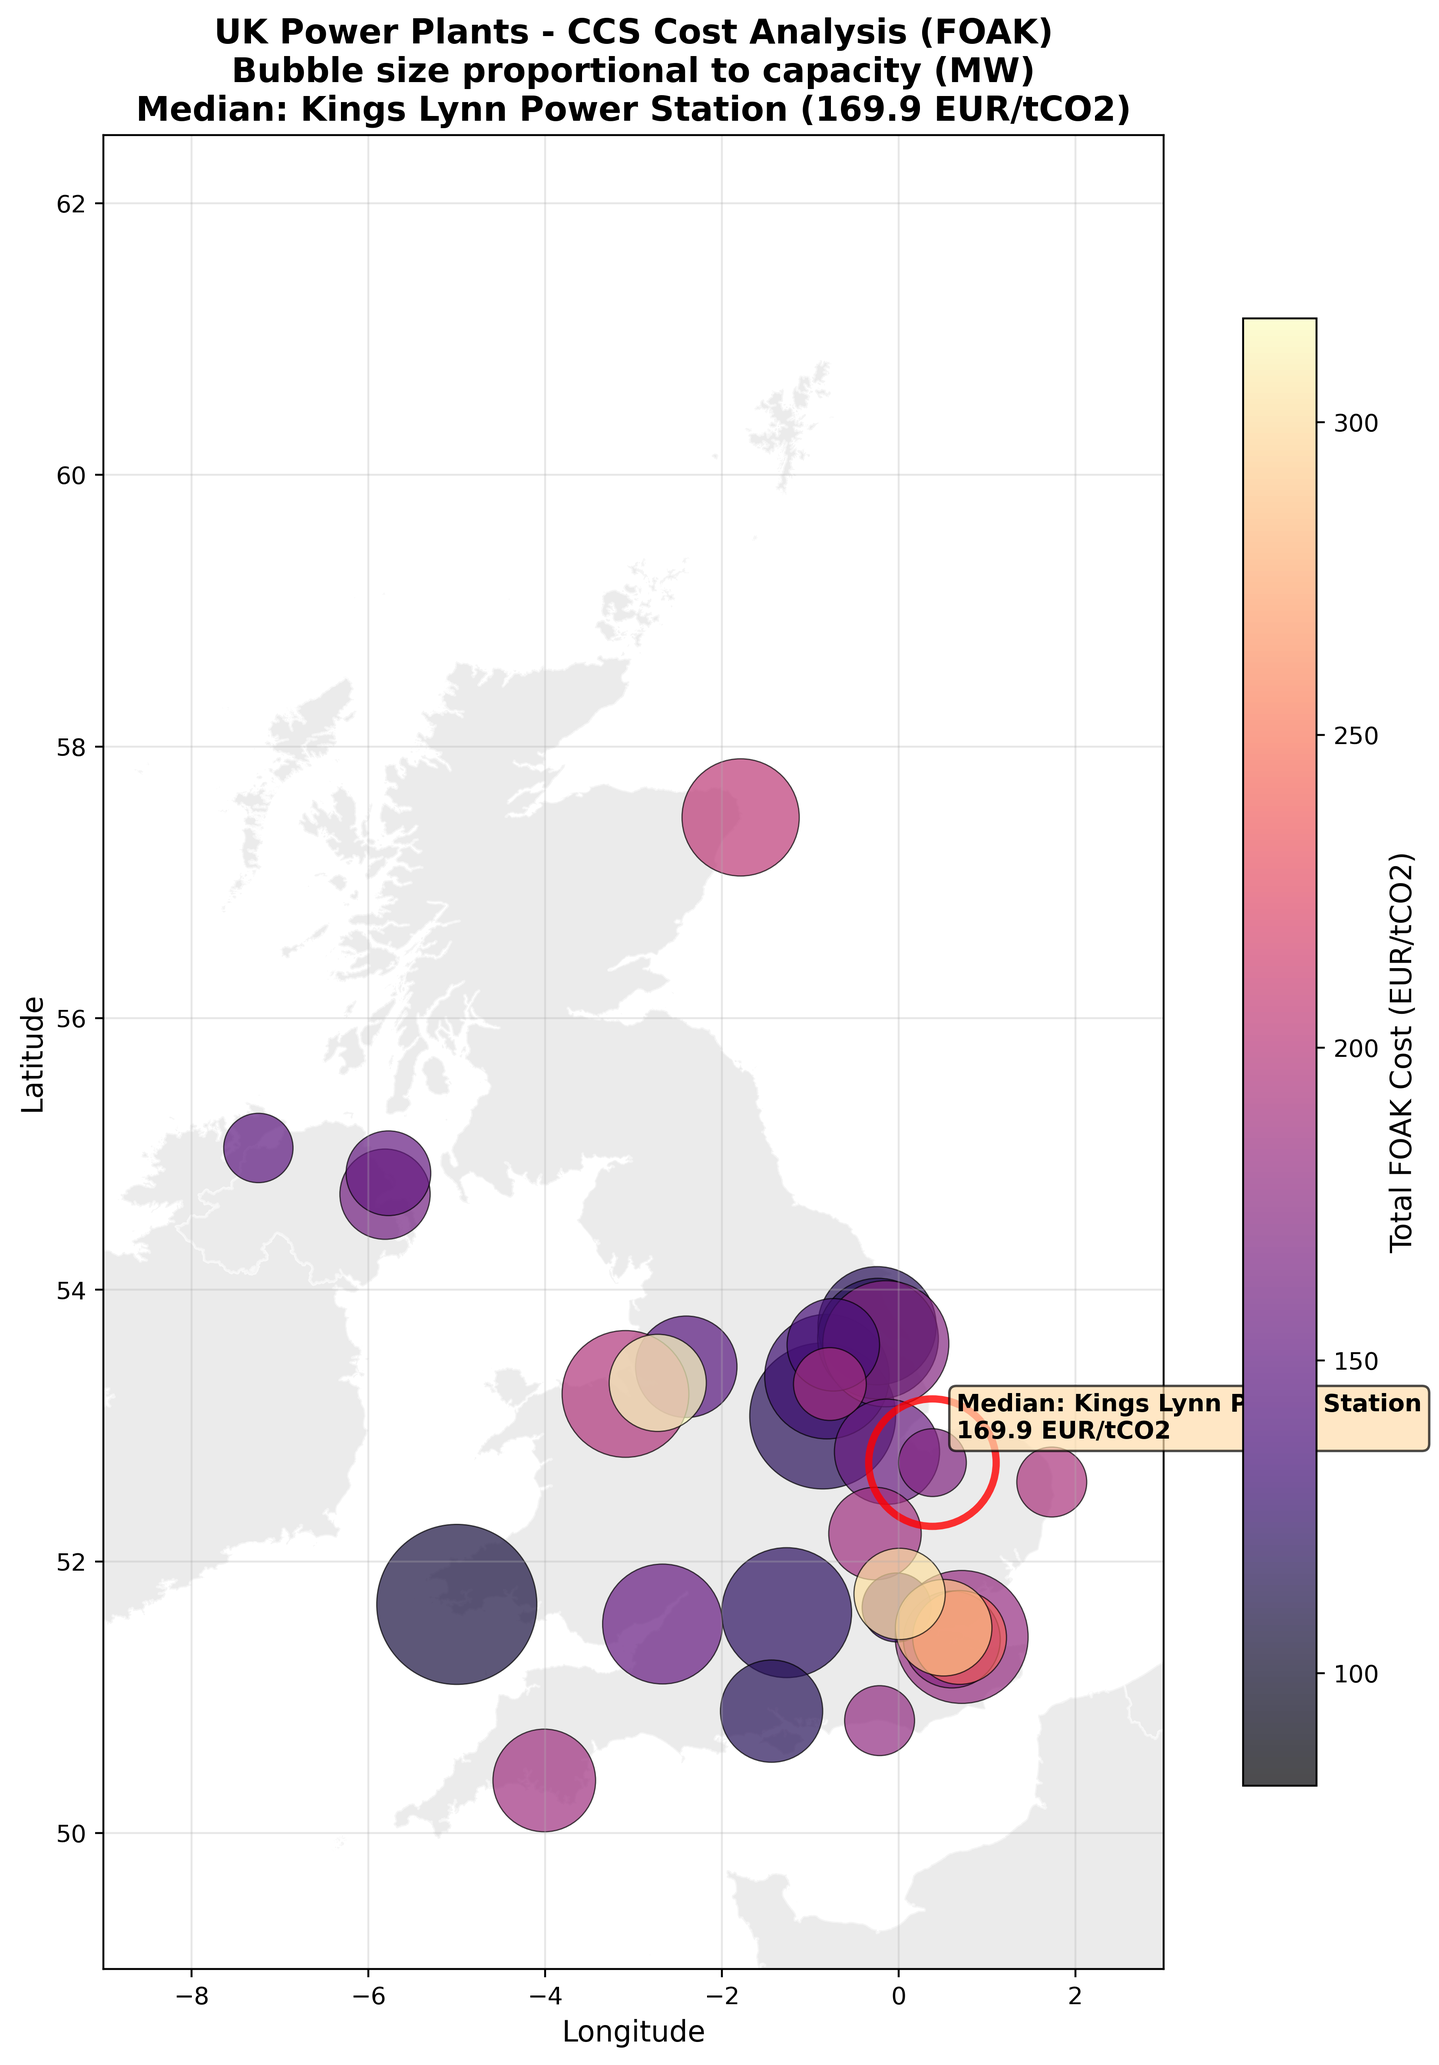
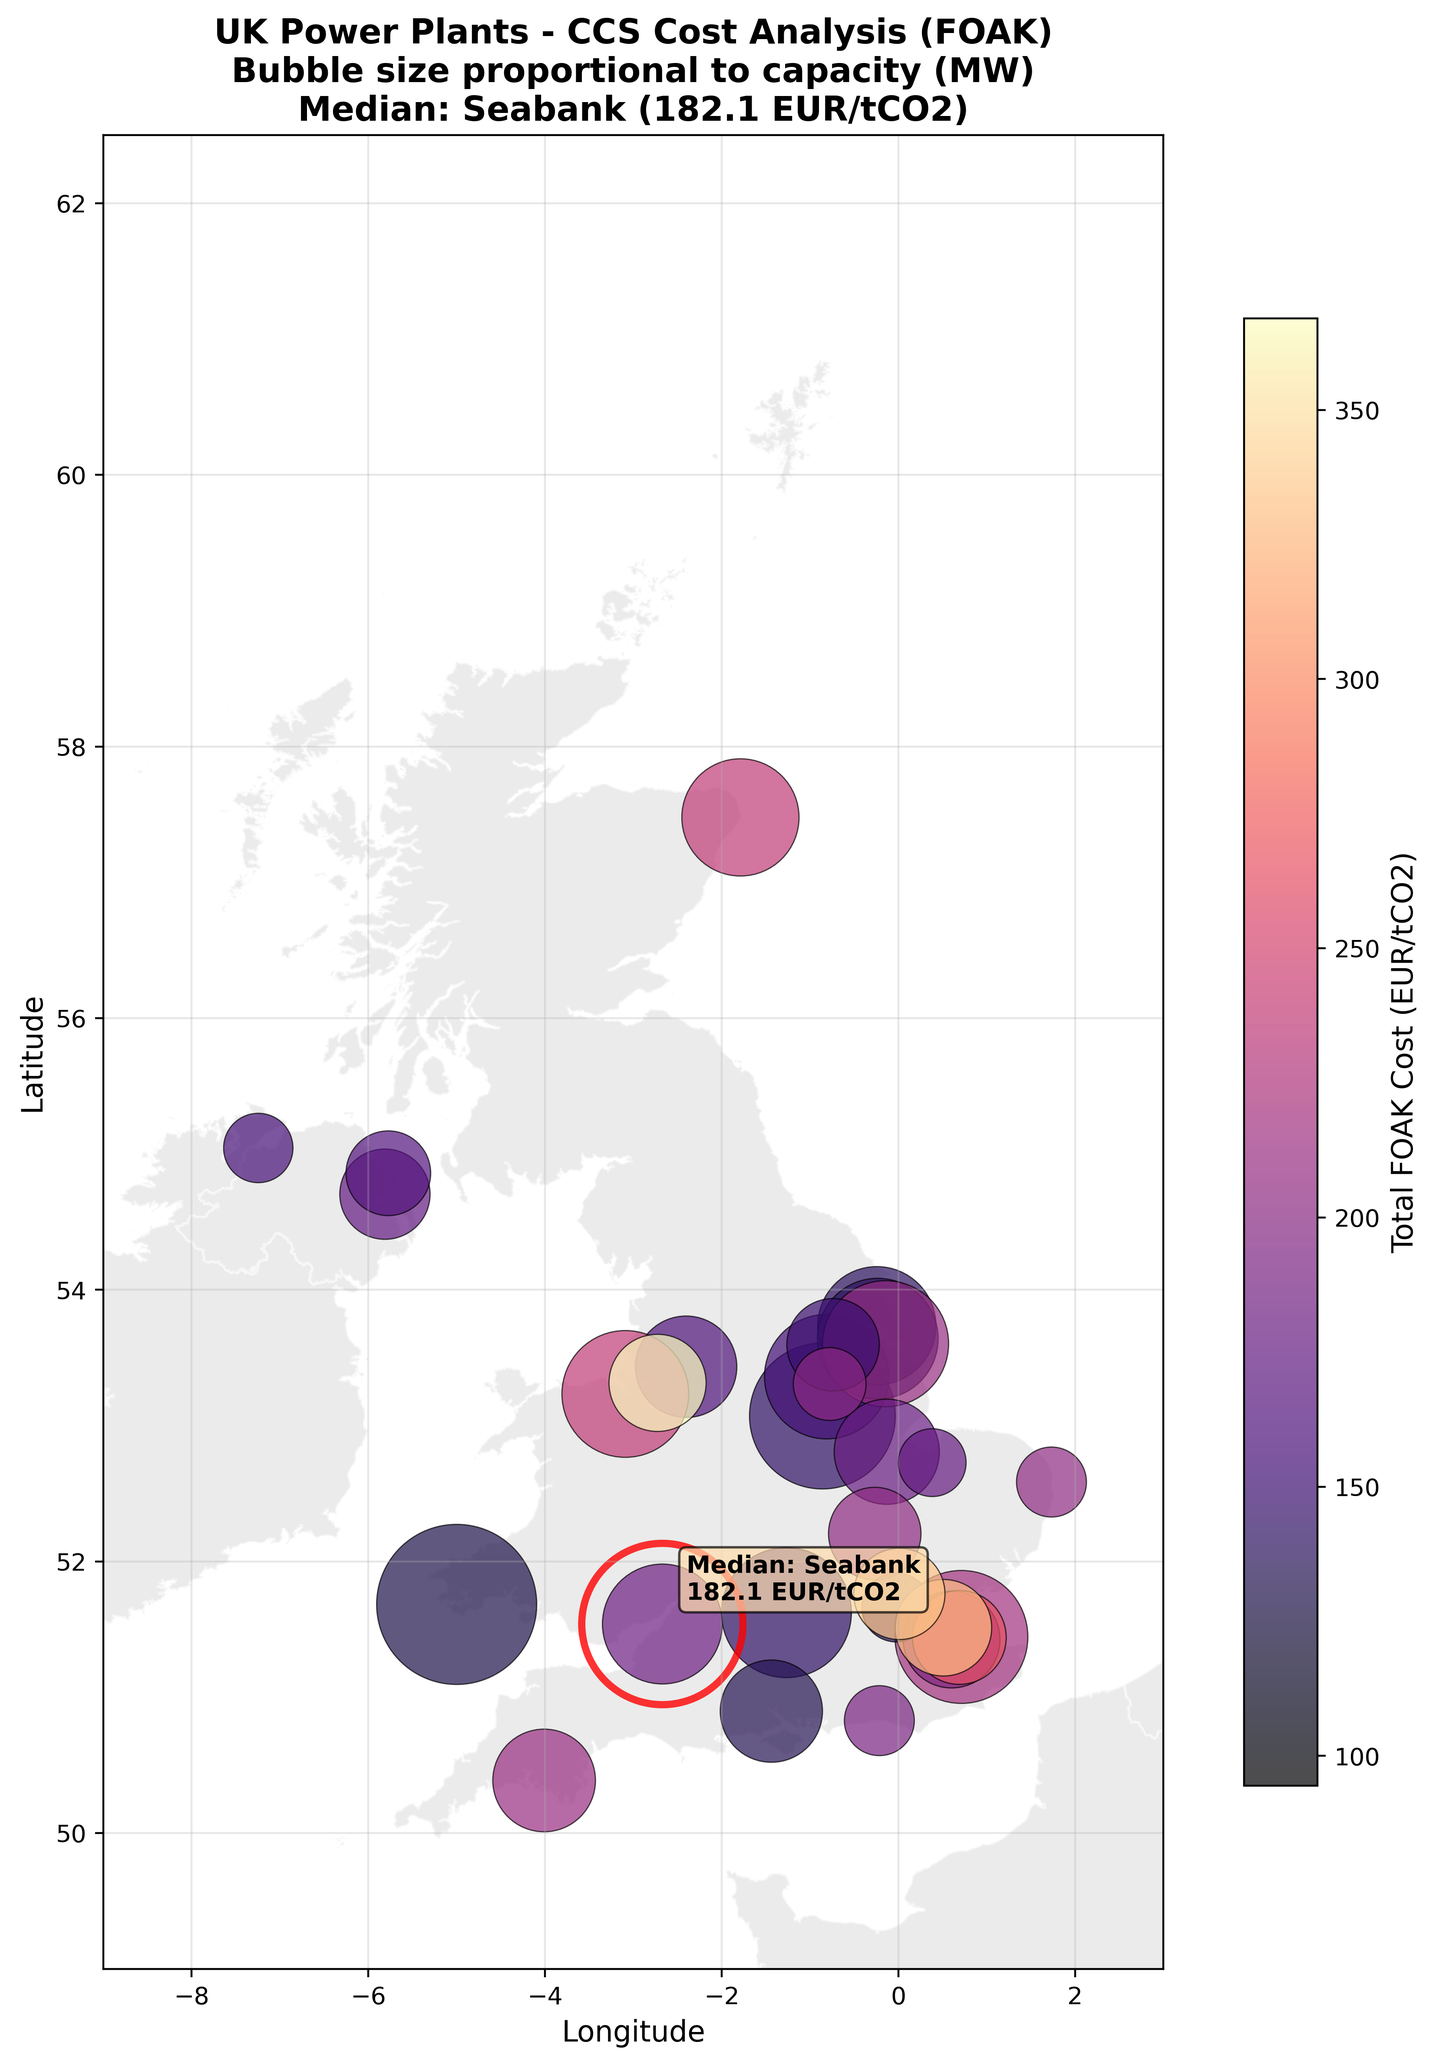
Cost demo industry refineries

diff --git a/cost_demo_industry.py b/cost_demo_industry.py
@@ -1,0 +1,250 @@
+import pandas as pd
+import matplotlib.pyplot as plt
+import numpy as np
+
+# Check this list also: https://ember-energy.org/latest-insights/the-largest-emitters-in-the-uk-annual-review/
+print("This script calculates the costs of industrial plants")
+
+def find_nearest_ccs_site(emitter_plant, transport_costs_df, discount_rate=0.035, lifetime=25, debug=False):
+    """
+    Find the nearest CCS site to an emitter plant and calculate total cost per tonne CO2.
+    
+    Parameters:
+    - emitter_plant: pandas Series with 'Easting' and 'Northing' columns
+    - transport_costs_df: DataFrame with CCS transport cost data
+    - debug: Boolean to print debug information
+    
+    Returns:
+    - dict: Contains site details and costs
+    """
+    if debug:
+        print(f"Finding nearest CCS site for: {emitter_plant.get('Site', 'Unknown')}")
+        print(f"Location: Easting={emitter_plant['Easting']}, Northing={emitter_plant['Northing']}")
+    
+    # Calculate distances to all sites in transport_costs
+    distances = []
+    for idx, row in transport_costs_df.iterrows():
+        if pd.notna(row['Easting']) and pd.notna(row['Northing']):
+            dist = calculate_distance(emitter_plant['Easting'], emitter_plant['Northing'], 
+                                    row['Easting'], row['Northing'])
+            distances.append({
+                'Site ID': row['Site ID'],
+                'Site': row['Site'],
+                'Easting': row['Easting'],
+                'Northing': row['Northing'],
+                'Distance': dist
+            })
+    
+    # Find closest site
+    distances_df = pd.DataFrame(distances)
+    closest_distance_idx = distances_df['Distance'].idxmin()
+    closest_site_id = distances_df.loc[closest_distance_idx, 'Site ID']
+    closest_site_original = transport_costs_df[transport_costs_df['Site ID'] == closest_site_id].iloc[0]
+    
+    # Extract cost data
+    mass_CO2 = closest_site_original['Total Tonnes of CO2 stored (MtCO2) 2070']
+    point_CO2 = closest_site_original['CO2 Point']
+    terminal = closest_site_original['Final CO2 Terminal']
+    injection_site = closest_site_original['Injection Site']
+    onshore_mode = closest_site_original['CO2 Pipeline/Trucking?']
+    
+    # Calculate onshore costs per tonne CO2
+    onshore_opex = float(closest_site_original['CO2 onshore transport opex (£m/y)'])
+    onshore_opex = onshore_opex / mass_CO2  # [£/tCO2]
+    
+    onshore_pipeline = 0
+    if onshore_mode == "Pipeline":
+        pipeline_capex = float(closest_site_original['CO2 onshore pipeline capex (£m)'])
+        annuity_factor = (discount_rate * (1 + discount_rate) ** lifetime) / ((1 + discount_rate) ** lifetime - 1)
+        onshore_pipeline = pipeline_capex * annuity_factor
+        onshore_pipeline = onshore_pipeline / mass_CO2  # [£/tCO2]
+        onshore_opex += onshore_pipeline
+    
+    injection_opex = float(closest_site_original['CO2 T&S cost from defined point (£/t)'])
+    total_cost = onshore_opex + injection_opex
+    
+    result = {
+        'site_id': closest_site_id,
+        'site_name': closest_site_original['Site'],
+        'distance_m': distances_df.loc[closest_distance_idx, 'Distance'],
+        'mass_co2_kt': round(mass_CO2 * 1000, 1),
+        'co2_point': point_CO2,
+        'terminal': terminal,
+        'injection_site': injection_site,
+        'onshore_mode': onshore_mode,
+        'onshore_cost_per_t': round(onshore_opex, 2),
+        'injection_cost_per_t': round(injection_opex, 2),
+        'total_cost_per_t': round(total_cost, 1)
+    }
+    
+    if debug:
+        print(f"\nClosest site: {result['site_name']} (ID: {result['site_id']})")
+        print(f"Distance: {result['distance_m']:.2f} meters")
+        print(f"Mass CO2: {result['mass_co2_kt']} ktCO2/y")
+        print(f"CO2 point: {result['co2_point']}")
+        print(f"Terminal: {result['terminal']}")
+        print(f"Injection site: {result['injection_site']}")
+        print(f"Onshore mode: {result['onshore_mode']}")
+        print(f"Onshore cost: {result['onshore_cost_per_t']} £/tCO2")
+        print(f"Injection cost: {result['injection_cost_per_t']} £/tCO2")
+        print(f"Total cost: {result['total_cost_per_t']} £/tCO2")
+    
+    return result
+
+def calculate_distance(easting1, northing1, easting2, northing2):
+    """Calculate Euclidean distance between two points"""
+    return ((easting1 - easting2)**2 + (northing1 - northing2)**2)**0.5
+
+# Prepare data
+point_sources = pd.read_csv("data/point_sources_CO2_2022.csv")
+point_sources['CO2'] = point_sources['Emission'] * 3.66
+total_co2 = point_sources['CO2'].sum()
+
+print(f"\nTop 60 largest CO2 emitters (2022):")
+top_60_emitters = point_sources.nlargest(60, 'CO2')[['PlantID', 'Site', 'Easting', 'Northing', 'Operator', 'Sector', 'CO2']]
+for i, (idx, row) in enumerate(top_60_emitters.iterrows(), 1):
+    print(f"{i:2d}. {row['Site']:<25} | {row['Operator']:<35} | {row['Sector']:<30} | {row['CO2']:>12,.0f} tCO2/yr")
+print(f"Sum of top 60 emitters: {top_60_emitters['CO2'].sum():,.0f} tonnes")
+print("Sum of all point-source CO2 emissions in 2022: ", round(total_co2*10**-6, 1), " MtCO2/yr")
+
+# Calculate transport costs for all top 60 emitters
+transport_costs = pd.read_csv("data/nzip_balanced_scenario_results.csv", encoding='latin-1')
+transport_costs = transport_costs[transport_costs["CO2 Pipeline/Trucking?"] != "No CCS"] 
+for idx, plant in top_60_emitters.iterrows():
+    result = find_nearest_ccs_site(plant, transport_costs, discount_rate=0.035, lifetime=25, debug=False)
+    plant['transport_cost'] = result['total_cost_per_t'] # [£/tCO2]
+
+# Create DataFrame with only refineries from top 60 emitters
+refineries = top_60_emitters[(top_60_emitters['Sector'] == 'Processing & distribution of petroleum products')].copy()
+print("These refineries will be considered:")
+for i, (idx, row) in enumerate(refineries.iterrows(), 1):
+    print(f"{i:2d}. {row['Site']:<25} | {row['Operator']:<35} | {row['CO2']:>12,.0f} tCO2/yr")
+
+# Explore CAPEX relationships [Kim & Léonard, 2025]
+# TEC = a + (b * xCO2**n + c) * V**m [MEUR, 2023] - note that this is not valid for CCGT if xCO2<5%, or if mCO2>1250 kt/y
+a = 2.1673
+b = 0.8092
+c = -0.00332
+n = 0.5291
+m = 0.8391
+
+results = []
+
+for idx, refinery in refineries.iterrows():
+    total_CO2 = refinery['CO2']
+    power_stack = ['power',total_CO2 * 0.298, (3*25 + 8*54)/(25+54)/100] # [stack_name,tCO2/yr, fraction of CO2]
+    crackers_stack = ['crackers',total_CO2 * 0.20, 17/100]
+    distillation_stack = ['distillation',total_CO2 * 0.17, 11/100]
+    smr_stack = ['smr',total_CO2 * 0.118, (8*6 + 24*26)/(6+26)/100]
+    remaining_stack = ['remaining',total_CO2 * 0.188, 8/100]
+
+    for stack in [power_stack, crackers_stack, distillation_stack, smr_stack, remaining_stack]:
+        FLH = 8400 # [h/y]
+        xCO2 = stack[2] # [-]
+        mCO2 = stack[1] #[tCO2/yr]
+
+        mCO2 = mCO2 / FLH # [tCO2/h]
+        nCO2 = mCO2*1000 / 44 # [kmolCO2/h]
+        n_fluegas = nCO2 / xCO2 # [kmol/h]
+        V_fluegas = n_fluegas * 22.4 # [Nm3/h]
+
+        n_largest_absorbers = int( (V_fluegas/1000) // 1613) # The volume limit from [Kim & Leonard, 2025] Table A2
+        remaining_V_fluegas = (V_fluegas/1000) % 1613 # [10**3 Nm3/h]
+
+        CAPEX = 0
+        for i in range(n_largest_absorbers):
+            V_fluegas = 1613 # Add the largest absorbers if needed
+            TEC = a + (b * (xCO2)**n + c) * (V_fluegas)**m # NOTE xCO2 as fraction, not percentage
+            CAPEX += TEC
+        if remaining_V_fluegas > 0:
+            TEC = a + (b * (xCO2)**n + c) * (remaining_V_fluegas)**m 
+            CAPEX += TEC
+        CAPEX = CAPEX * 5.509 # [MEUR] NETL Methodology
+        CEPCI_2025 = 930
+        CEPCI_2023 = 798.7
+        CAPEX = CAPEX * CEPCI_2025 / CEPCI_2023
+
+        capture_rate = 0.95 # [0-1]
+        annualized_CAPEX = CAPEX * 0.07 * (1 + 0.07)**25 / ((1 + 0.07)**25 - 1) *10**6# [EUR/y]
+        levelized_CAPEX = annualized_CAPEX / (plant['CO2']*capture_rate) # [EUR/tCO2]
+        levelized_CAPEX_FOAK = 1.7553 * levelized_CAPEX # [EUR/tCO2]
+
+        # Calculate transport cost
+        pounds_to_EUR = 1.15
+        transport_result = find_nearest_ccs_site(plant, transport_costs, debug=False)
+        transport_cost = transport_result['total_cost_per_t'] * pounds_to_EUR
+        transport_cost = transport_cost * CEPCI_2025 / CEPCI_2023
+
+        # Estimate energy OPEX (industry)
+        Qreb = 3.5 * mCO2*capture_rate*1000/3600 # [MW]
+        Qsteam = 0.15 * Qreb # [MW]
+        Qelec = 0.30 * Qreb # [MW]
+        Qchp = 0.55 * Qreb # [MW]
+
+        cost_steam = 4.1 # [EUR/tsteam @130C] [Ali]
+        evaporation_enthalpy = 2257 # [MJ/tsteam]
+        cost_steam = cost_steam / evaporation_enthalpy # [EUR/MJ]
+        Qsteam = Qsteam * FLH * 3600 # [MJ/y]
+        OPEX_steam = cost_steam * Qsteam # [EUR/y]        
+        OPEX_steam = OPEX_steam / (stack[1]*capture_rate) # [EUR/tCO2]
+        print(OPEX_steam, "EUR/tCO2 at stack=", stack[1], "tCO2/yr")
+
+        celc = 80 # [EUR/MWh electricity]
+        Pelec = Qelec * 0.33 * FLH # [MWh/y]
+        OPEX_elec = celc * Pelec # [EUR/y]
+        OPEX_elec = OPEX_elec / (stack[1]*capture_rate) # [EUR/tCO2]
+        print(OPEX_elec, "EUR/tCO2 at stack=", stack[1], "tCO2/yr")
+
+        cbio = 65 # [EUR/MWh biomass]
+        Qchp = Qchp * FLH # [MWh/y]
+        OPEX_chp = cbio * Qchp # [EUR/y]
+        OPEX_chp = OPEX_chp / (stack[1]*capture_rate) # [EUR/tCO2]
+        print(OPEX_chp, "EUR/tCO2 at stack=", stack[1], "tCO2/yr")
+
+        OPEXE = OPEX_steam + OPEX_elec + OPEX_chp
+   
+        total_cost_foak = levelized_CAPEX_FOAK + transport_cost + OPEXE
+        total_cost_noak = levelized_CAPEX + transport_cost + OPEXE
+        
+        # Store results
+        results.append({
+            'Plant': refinery['Site'],
+            'Stack': stack[0],
+            'CO2_kt_y': stack[1]/1000,
+            'FLH_h': FLH,
+            'CAPEX_FOAK': levelized_CAPEX_FOAK,
+            'CAPEX_NOAK': levelized_CAPEX,
+            'Transport_EUR_tCO2': transport_cost,
+            'OPEX_EUR_tCO2': OPEXE,
+            'Total_FOAK': total_cost_foak,
+            'Total_NOAK': total_cost_noak
+        })
+
+# Create and display results table
+if results:
+    print(f"{'Plant Name':<30} | {'CO2':<8} | {'FLH':<6} | {'FOAK':<8} | {'NOAK':<8} | {'Transport':<9} | {'OPEX':<8} | {'TotalFOAK':<9} | {'TotalNOAK':<9}")
+    print(f"{'':<30} | {'kt/y':<8} | {'h/y':<6} | {'EUR/tCO2':<8} | {'EUR/tCO2':<8} | {'EUR/tCO2':<9} | {'EUR/tCO2':<8} | {'EUR/tCO2':<9} | {'EUR/tCO2':<9}")
+    print("-" * 120)
+    
+    for result in results:
+        print(f"{result['Plant']:<30} | {result['CO2_kt_y']:>8.1f} | {result['FLH_h']:>6.0f} | {result['CAPEX_FOAK']:>8.1f} | {result['CAPEX_NOAK']:>8.1f} | {result['Transport_EUR_tCO2']:>9.1f} | {result['OPEX_EUR_tCO2']:>8.1f} | {result['Total_FOAK']:>9.1f} | {result['Total_NOAK']:>9.1f}")
+    
+    # Summary statistics
+    print("-" * 120)
+    avg_capture_foak = np.mean([r['CAPEX_FOAK'] for r in results])
+    avg_capture_noak = np.mean([r['CAPEX_NOAK'] for r in results])
+    avg_transport = np.mean([r['Transport_EUR_tCO2'] for r in results])
+    avg_opex = np.mean([r['OPEX_EUR_tCO2'] for r in results])
+    avg_total_foak = np.mean([r['Total_FOAK'] for r in results])
+    avg_total_noak = np.mean([r['Total_NOAK'] for r in results])
+    
+    print(f"{'AVERAGE':<30} | {'':<6} | {'':<8} | {'':<6} | {avg_capture_foak:>8.1f} | {avg_capture_noak:>8.1f} | {avg_transport:>9.1f} | {avg_opex:>8.1f} | {avg_total_foak:>9.1f} | {avg_total_noak:>9.1f}")
+    
+    print(f"\nSummary:")
+    print(f"Number of plants analyzed: {len(results)}")
+    print(f"Total CO2 emissions: {sum([r['CO2_kt_y'] for r in results]):,.1f} ktCO2/y")
+    print(f"Average total CCS cost (FOAK): {avg_total_foak:.1f} EUR/tCO2")
+    print(f"Average total CCS cost (NOAK): {avg_total_noak:.1f} EUR/tCO2")
+    print(f"Cost range (FOAK): {min([r['Total_FOAK'] for r in results]):.1f} - {max([r['Total_FOAK'] for r in results]):.1f} EUR/tCO2")
+    print(f"Cost range (NOAK): {min([r['Total_NOAK'] for r in results]):.1f} - {max([r['Total_NOAK'] for r in results]):.1f} EUR/tCO2")
+    

diff --git a/cost_demo_power.py b/cost_demo_power.py
@@ -3,19 +3,7 @@ import matplotlib.pyplot as plt
 import numpy as np
 
 # Check this list also: https://ember-energy.org/latest-insights/the-largest-emitters-in-the-uk-annual-review/
-print("This script calculates the costs of: ")
-print("1) CCGT - Pembroke Power Station")
-print("2) CCGT - Rocksavage Power")
-print("3) Refinery - Fawley")
-print("4) Refinery - Lindsey")
-print("5) Cement - Hope")
-print("6) Cement - Cauldon")
-print("7) Steel - Scunthorpe")
-print("8) Petrochemical - Billingham")
-print("9) Petrochemical - Grangemouth")
-print("10) W2E - Runcorn")
-print("11) W2E - Dudley")
-print("12) Biopower - Drax")
+print("This script calculates the costs of CCGT power plants")
 
 def find_nearest_ccs_site(emitter_plant, transport_costs_df, discount_rate=0.035, lifetime=25, debug=False):
     """
@@ -196,52 +184,26 @@ for plant_name, capacity in capacity_data.items():
     emission_factor = 0.204 # tCO2/MWhfuel [NZIP, 2020]
     FLH = plant['CO2'] / (Qfuel * emission_factor) # [h/y] = tCO2/yr / (tCO2/h)
 
-    mCO2 = Qfuel * emission_factor # [tCO2/h] when at full load
+    mCO2 = Qfuel * emission_factor * 0.95 # [tCO2/h] when at full load
     nCO2 = mCO2*1000 / 44 # [kmolCO2/h]
     n_fluegas = nCO2 / xCO2 # [kmol/h]
     V_fluegas = n_fluegas * 22.4 # [Nm3/h]
 
     n_largest_absorbers = int( (V_fluegas/1000) // 1613) # The volume limit from [Kim & Leonard, 2025] Table A2
     remaining_V_fluegas = (V_fluegas/1000) % 1613 # [10**3 Nm3/h]
-    print("Plant name: ", plant_name, " needs ", n_largest_absorbers, " largest absorbers and has remaining V_fluegas of ", remaining_V_fluegas, " [10**3 Nm3/h]")
 
     CAPEX = 0
     for i in range(n_largest_absorbers):
         V_fluegas = 1613 # Add the largest absorbers if needed
-        print(round(V_fluegas/22.4 * xCO2 * 44 /1000 * FLH, 0), "ktCO2/y") #ktCO2/y NOTE: We are within the KIM range! Its good :)
         TEC = a + (b * (xCO2)**n + c) * (V_fluegas)**m # NOTE xCO2 as fraction, not percentage
         CAPEX += TEC
-        print(" - Adding TEC of LARGE absorber", TEC, " [MEUR]")
     if remaining_V_fluegas > 0:
         TEC = a + (b * (xCO2)**n + c) * (remaining_V_fluegas)**m 
         CAPEX += TEC
-        print(" - Adding TEC of remaining absorber", TEC, " [MEUR]")
-    CAPEX = TEC * 5.509 # [MEUR] NETL Methodology
-
-
-    # n_largest_absorbers = int( (mCO2*FLH/1000) // 1250) # The mass flow limit from [Kim & Leonard, 2025] Table A1
-    # remaining_mCO2 = (mCO2*FLH/1000) % 1250 # [ktCO2/y]
-
-    # CAPEX = 0
-    # for i in range(n_largest_absorbers):
-    #     mCO2 = 1250 *1000/FLH # [tCO2/h] For each largest absorber
-    #     nCO2 = mCO2*1000 / 44 # [kmolCO2/h]
-    #     n_fluegas = nCO2 / xCO2 # [kmol/h]
-    #     V_fluegas = n_fluegas * 22.4 # [Nm3/h]
-    #     TEC = a + (b * (xCO2)**n + c) * (V_fluegas/1000)**m # NOTE xCO2 as fraction, not percentage
-    #     print(" - Adding TEC of LARGE absorber", TEC, " [MEUR]")
-    #     print("------- STRANGELY, we get different absorber sizes... because we have different FLH values! SHould i interpret Kim based on Nm3/s or ktCO2/y?")
-    #     print(" Maybe Nm3/s makes more sense, since thats how the Aspen models operate mainly!")
-    #     CAPEX += TEC
-    # if remaining_mCO2 > 0:
-    #     remaining_mCO2 = remaining_mCO2 *1000/FLH # [tCO2/h]
-    #     nCO2 = remaining_mCO2*1000 / 44 # [kmolCO2/h]
-    #     n_fluegas = nCO2 / xCO2 # [kmol/h]
-    #     V_fluegas = n_fluegas * 22.4 # [Nm3/h]
-    #     TEC = a + (b * (xCO2)**n + c) * (V_fluegas/1000)**m 
-    #     print(" - Adding TEC of ", TEC, " [MEUR]")
-    #     CAPEX += TEC
-    # CAPEX = TEC * 5.509 # [MEUR] NETL Methodology
+    CAPEX = CAPEX * 5.509 # [MEUR] NETL Methodology
+    CEPCI_2025 = 930
+    CEPCI_2023 = 798.7
+    CAPEX = CAPEX * CEPCI_2025 / CEPCI_2023
 
     capture_rate = 0.95 # [0-1]
     annualized_CAPEX = CAPEX * 0.07 * (1 + 0.07)**25 / ((1 + 0.07)**25 - 1) *10**6# [EUR/y]
@@ -252,6 +214,7 @@ for plant_name, capacity in capacity_data.items():
     pounds_to_EUR = 1.15
     transport_result = find_nearest_ccs_site(plant, transport_costs, debug=False)
     transport_cost = transport_result['total_cost_per_t'] * pounds_to_EUR
+    transport_cost = transport_cost * CEPCI_2025 / CEPCI_2023
 
     # Estimate energy OPEX (CCGT)
     Pgas = Qfuel * 0.35 # [MW] Harvey GT lecture, and about 10% are lost as <120C flue gas heat
